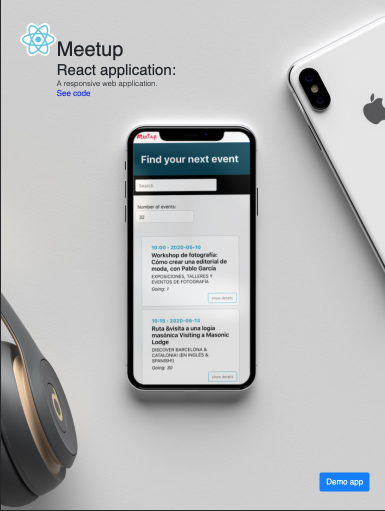
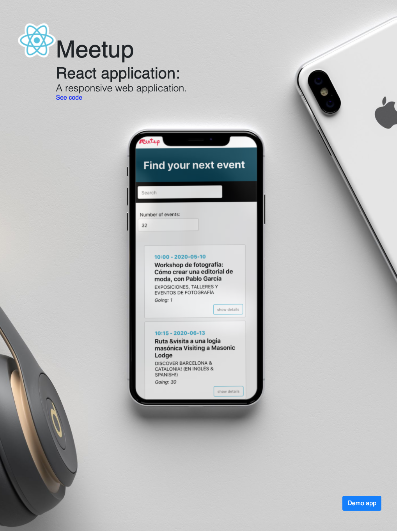
Redesign of projects.html: background colour, link colour, hover colour, text colour, added box shadows to pngs.

diff --git a/docs/projects.html b/docs/projects.html
@@ -10,7 +10,7 @@
           <link rel="stylesheet" type="text/css" href="css/style.production.css">
         </head>
 
-        <body>
+        <body style="background-color: white;">
   			  <header id="header" class="page-header">
             <nav class="main-navigation page-header__item">
               <ul role="menubar" class="navigation-list">
@@ -49,7 +49,6 @@
               <div
               class="wrapper-about"
               style="
-              color: white;
               margin-left: auto;
               font-size: 3vh;
               margin-right: auto;
@@ -109,7 +108,6 @@
                         <div
                         class="wrapper-about"
                         style="
-                        color: white;
                         margin-left: auto;
                         font-size: 3vh;
                         margin-right: auto;
@@ -191,7 +189,6 @@
                               <div
                               class="wrapper-about"
                               style="
-                              color: white;
                               margin-left: auto;
                               font-size: 3vh;
                               margin-right: auto;
@@ -201,14 +198,13 @@
                                   display: flex;
                                   flex-flow: column;
                                   line-height: 30px;">
-                                  <h4 style="text-align: center; font-weight: lighter; color: gray; margin-top: 5px;">GitHub.</h4>
+                                  <h4 style="text-align: center; font-weight: lighter; color: gray; margin-top: 10px;">GitHub.</h4>
                                   </br>
                                   </div>
                                   </div>
                                   <div
                                   class="wrapper-about"
                                   style="
-                                  color: white;
                                   margin-left: auto;
                                   font-size: 3vh;
                                   margin-right: auto;
@@ -219,7 +215,7 @@
                                       flex-flow: column;
                                       line-height: 30px;">
                                       <p class="text-font">
-                                        The source code is deployed to GitHub, a platform for hosting, collaborating, and version control. Take a look at the code <a link href="https://github.com/kevmhughes/MyFlickz" target="blank" role="link" style="text-decoration: underline">here</a>.
+                                        The source code is deployed to GitHub, a platform for hosting, collaborating, and version control. Take a look at the code <a link href="https://github.com/kevmhughes/MyFlickz" target="blank" role="link" style="text-decoration: underline;" class="projects-link">here</a>.
                                       </p>
                                       </br>
                                       <hr style="width: 100%;  border-color: gray;">
@@ -242,7 +238,6 @@
                               <div
                         class="wrapper-about"
                         style="
-                        color: white;
                         margin-left: auto;
                         font-size: 3vh;
                         margin-right: auto;
@@ -252,14 +247,13 @@
                             display: flex;
                             flex-flow: column;
                             line-height: 30px;">
-                              <h4 style="text-align: center; font-weight: lighter; color: gray; margin-top: 5px;">MongoDB.</h4>
+                              <h4 style="text-align: center; font-weight: lighter; color: gray; margin-top: 10px;">MongoDB.</h4>
                             </br>
                             </div>
                             </div>
                             <div
                                   class="wrapper-about"
                                   style="
-                                  color: white;
                                   margin-left: auto;
                                   font-size: 3vh;
                                   margin-right: auto;
@@ -293,7 +287,6 @@
                               <div
                         class="wrapper-about"
                         style="
-                        color: white;
                         margin-left: auto;
                         font-size: 3vh;
                         margin-right: auto;
@@ -303,14 +296,13 @@
                             display: flex;
                             flex-flow: column;
                             line-height: 30px;">
-                              <h4 style="text-align: center; font-weight: lighter; color: gray; margin-top: 5px;">Testing with Postman.</h4>
+                              <h4 style="text-align: center; font-weight: lighter; color: gray; margin-top: 10px;">Testing with Postman.</h4>
                             </br>
                             </div>
                             </div>
                             <div
                             class="wrapper-about"
                             style="
-                            color: white;
                             margin-left: auto;
                             font-size: 3vh;
                             margin-right: auto;
@@ -321,7 +313,7 @@
                                 flex-flow: column;
                                 line-height: 30px;">
                                 <p class="text-font">
-                                  The API <a link href="https://github.com/kevmhughes/MyFlickz#endpoints" target="blank" role="link" style="text-decoration: underline">endpoints</a> were tested on Postman, an interactive tool that I used for verifying the HTTP methods: GET, POST, PUT, and DELETE. In the screenshot, the result for the POST request "add user" can be seen. In this test result, it can also be seen that the password has been correctly hashed adhering to the application's security regulations logic.</p>
+                                  The API <a link href="https://github.com/kevmhughes/MyFlickz#endpoints" target="blank" role="link" style="text-decoration: underline" class="projects-link">endpoints</a> were tested on Postman, an interactive tool that I used for verifying the HTTP methods: GET, POST, PUT, and DELETE. In the screenshot, the result for the POST request "add user" can be seen. In this test result, it can also be seen that the password has been correctly hashed adhering to the application's security regulations logic.</p>
                                 </br>
                                 <hr style="width: 100%; border-style: double; color: gray">
                                 </div>
@@ -332,7 +324,6 @@
                             <div
                         class="wrapper-about"
                         style="
-                        color: white;
                         margin-left: auto;
                         font-size: 3vh;
                         margin-right: auto;
@@ -403,7 +394,6 @@
                             <div
                             class="wrapper-about"
                             style="
-                            color: white;
                             margin-left: auto;
                             font-size: 3vh;
                             margin-right: auto;
@@ -413,7 +403,7 @@
                             display: flex;
                             flex-flow: column;
                             line-height: 30px;">
-                              <h4 style="text-align: center; font-weight: lighter; color: gray; margin-top: 5px;">Responsive design.</h4>
+                              <h4 style="text-align: center; font-weight: lighter; color: gray; margin-top: 10px;">Responsive design.</h4>
                             </br>
                             </div>
                             </div>
@@ -421,7 +411,6 @@
                             <div
                             class="wrapper-about"
                             style="
-                            color: white;
                             margin-left: auto;
                             font-size: 3vh;
                             margin-right: auto;
@@ -432,7 +421,7 @@
                             flex-flow: column;
                             line-height: 30px;">
                             <p class="text-font">
-                              The application has been responsively designed for desktops, tablets, and mobiles using Bootstrap, CSS, media query breakpoints, and flex boxes. Demo the app <a link href="https://myflickz.herokuapp.com/client/" target="blank" role="link" style="text-decoration: underline">here</a>.</p>
+                              The application has been responsively designed for desktops, tablets, and mobiles using Bootstrap, CSS, media query breakpoints, and flex boxes. Demo the app <a link href="https://myflickz.herokuapp.com/client/" target="blank" role="link" style="text-decoration: underline" class="projects-link">here</a>.</p>
                             </br>
                             <hr style="width: 100%;  border-color: gray;">
                             </br>
@@ -455,7 +444,6 @@
                                 <div
                                 class="wrapper-about"
                                 style="
-                                color: white;
                                 margin-left: auto;
                                 font-size: 3vh;
                                 margin-right: auto;
@@ -465,7 +453,7 @@
                                     display: flex;
                                     flex-flow: column;
                                     line-height: 30px;">
-                                      <h4 style="text-align: center; font-weight: lighter; color: gray; margin-top: 5px;">Filter movie by name.</h4>
+                                      <h4 style="text-align: center; font-weight: lighter; color: gray; margin-top: 10px;">Filter movie by name.</h4>
                                     </br>
                                     </div>
                                     </div>
@@ -473,7 +461,6 @@
                                     <div
                                     class="wrapper-about"
                                     style="
-                                    color: white;
                                     margin-left: auto;
                                     font-size: 3vh;
                                     margin-right: auto;
@@ -507,7 +494,6 @@
                                       <div
                                       class="wrapper-about"
                                       style="
-                                      color: white;
                                       margin-left: auto;
                                       font-size: 3vh;
                                       margin-right: auto;
@@ -517,7 +503,7 @@
                                       display: flex;
                                       flex-flow: column;
                                       line-height: 30px;">
-                                        <h4 style="text-align: center; font-weight: lighter; color: gray; margin-top: 5px;">Login view.</h4>
+                                        <h4 style="text-align: center; font-weight: lighter; color: gray; margin-top: 10px;">Login view.</h4>
                                       </br>
                                       </div>
                                       </div>
@@ -525,7 +511,6 @@
                                       <div
                                       class="wrapper-about"
                                       style="
-                                      color: white;
                                       margin-left: auto;
                                       font-size: 3vh;
                                       margin-right: auto;
@@ -559,7 +544,6 @@
                                   <div
                                   class="wrapper-about"
                                   style="
-                                  color: white;
                                   margin-left: auto;
                                   font-size: 3vh;
                                   margin-right: auto;
@@ -569,7 +553,7 @@
                                       display: flex;
                                       flex-flow: column;
                                       line-height: 30px;">
-                                        <h4 style="text-align: center; font-weight: lighter; color: gray; margin-top: 5px;">Client-side validation.</h4>
+                                        <h4 style="text-align: center; font-weight: lighter; color: gray; margin-top: 10px;">Client-side validation.</h4>
                                       </br>
                                       </div>
                                       </div>
@@ -577,7 +561,6 @@
                                       <div
                                       class="wrapper-about"
                                       style="
-                                      color: white;
                                       margin-left: auto;
                                       font-size: 3vh;
                                       margin-right: auto;
@@ -598,7 +581,6 @@
                                           <div
                                           class="wrapper-about"
                                           style="
-                                          color: white;
                                           margin-left: auto;
                                           font-size: 3vh;
                                           margin-right: auto;
@@ -622,7 +604,6 @@
                                               <div
                                               class="wrapper-about"
                                               style="
-                                              color: white;
                                               margin-left: auto;
                                               font-size: 3vh;
                                               margin-right: auto;
@@ -654,10 +635,10 @@
                                                   flex-wrap: wrap;
                                                   justify-content: center;
                                                  ">
-                                                  <span style="margin: 10px"><a href="index.html#slide2" target="_blank"><img style="width: 350px" src="img/project-link-one.png"></a></span>
-                                                  <span style="margin: 10px"><a href="index.html#slide4" target="_blank"><img style="width: 350px" src="img/project-link-two.png"></a></span>
-                                                  <span style="margin: 10px"><a href="index.html#slide8" target="_blank"><img style="width: 350px" src="img/project-link-three.png"></a></span>
-                                                  <span style="margin: 10px"><a href="index.html#slide10" target="_blank"><img style="width: 350px" src="img/project-link-four.png"></a></span>
+                                                  <span style="margin: 10px"><a href="index.html#slide2" target="_blank"><img style="width: 350px; box-shadow:12px 12px 29px #555" src="img/project-link-one.png"></a></span>
+                                                  <span style="margin: 10px"><a href="index.html#slide4" target="_blank"><img style="width: 350px; box-shadow:12px 12px 29px #555" src="img/project-link-two.png"></a></span>
+                                                  <span style="margin: 10px"><a href="index.html#slide8" target="_blank"><img style="width: 350px; box-shadow:12px 12px 29px #555" src="img/project-link-three.png"></a></span>
+                                                  <span style="margin: 10px"><a href="index.html#slide10" target="_blank"><img style="width: 350px; box-shadow:12px 12px 29px #555" src="img/project-link-four.png"></a></span>
                                                   </div>
                                                 </br>
                                                 </div>
@@ -667,7 +648,6 @@
                                                 <div
                                                 class="wrapper-about"
                                                 style="
-                                                color: white;
                                                 margin-left: auto;
                                                 font-size: 3vh;
                                                 margin-right: auto;
@@ -677,7 +657,7 @@
                                                 display: flex;
                                                 flex-flow: column;
                                                 line-height: 30px;">
-                                                  <h4 style="text-align: center; font-weight: lighter; color: gray; margin-top: 5px;"><a href="projects.html#slide10" target="_blank">Back to top</a></h4>
+                                                  <h4 style="text-align: center; font-weight: lighter; color: gray; margin-top: 10px;"><a href="projects.html#slide10" target="_blank" class="projects-link">Back to top</a></h4>
                                                 </br>
                                                 </div>
                                                 </div>

diff --git a/docs/css/style.production.css b/docs/css/style.production.css
@@ -1469,9 +1469,16 @@ body {
 
   .project-images {
     width: 80%;
-    margin: auto
+    margin: auto;
+    box-shadow: 12px 12px 29px #555;
   }
 
+  .projects-link {
+    color: black
+  }
+  .projects-link: hover {
+    color: darkgray
+  }
 
 
 
